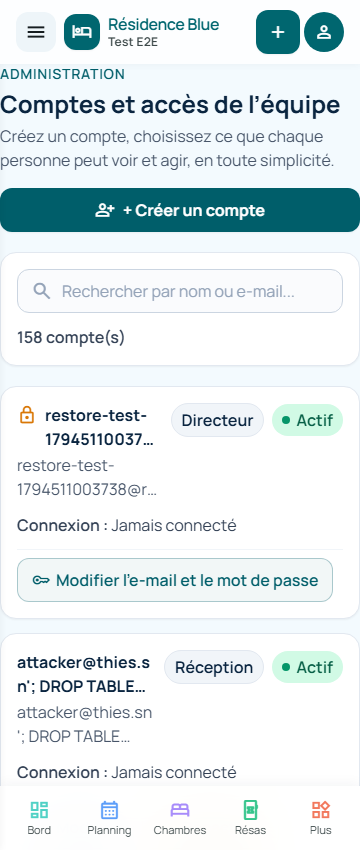
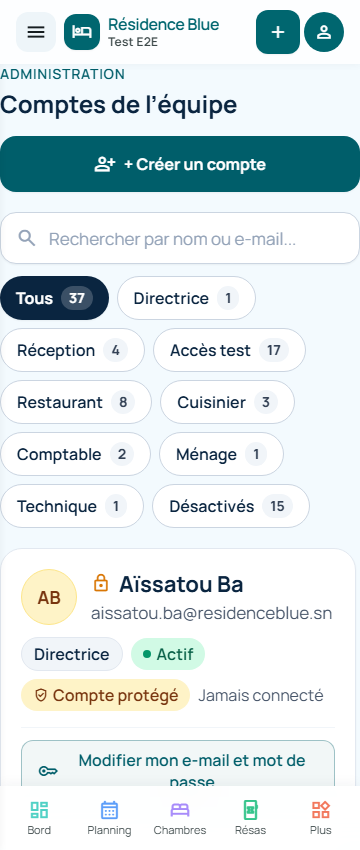
test(administration): add card list e2e tests and responsive captures

diff --git a/apps/web/e2e/administration-liste-comptes.spec.ts b/apps/web/e2e/administration-liste-comptes.spec.ts
@@ -1,0 +1,264 @@
+import * as fs from 'node:fs';
+import * as path from 'node:path';
+import { expect, test } from '@playwright/test';
+import { createE2eUser, deleteE2eUsers, loginViaUi } from './auth-e2e.helper';
+
+const capturesDir = path.resolve(
+  __dirname,
+  '../../../docs/design/captures/administration-liste-comptes',
+);
+
+test.describe('Administration — Liste des comptes en cartes (anti-régression)', () => {
+  const createdEmails: string[] = [];
+
+  test.beforeAll(() => {
+    fs.mkdirSync(capturesDir, { recursive: true });
+  });
+
+  test.afterAll(() => {
+    deleteE2eUsers(createdEmails);
+  });
+
+  test('cartes sans débordement à 360/768/1024/1440, filtres dynamiques, directeur unique protégé, suppression en page Modifier et refus API 2e admin', async ({
+    page,
+    request,
+  }) => {
+    test.setTimeout(180000);
+    const dir = createE2eUser('DIRECTION');
+    createdEmails.push(dir.email);
+
+    const loginRes = await request.post('/api/auth/login', {
+      data: { login: dir.email, password: dir.password },
+    });
+    expect(loginRes.status()).toBe(200);
+    const { accessToken: token } = (await loginRes.json()) as { accessToken: string };
+    expect(token).toBeTruthy();
+
+    await page.setViewportSize({ width: 1440, height: 900 });
+    await loginViaUi(page, dir.email, dir.password);
+
+    // Sécurité : l'API doit refuser (403) la création d'un second compte DIRECTEUR
+    const forbiddenSecondDirRes = await page.request.post('/api/administration/comptes', {
+      headers: { Authorization: `Bearer ${token}` },
+      data: {
+        fullName: 'Tentative Deuxième Admin',
+        email: `second-admin-${Date.now()}@residenceblue.sn`,
+        starterProfile: 'DIRECTEUR',
+        screenAccess: {
+          accueil: 'ECRITURE',
+          planning: 'ECRITURE',
+          chambres: 'ECRITURE',
+          clients: 'ECRITURE',
+          facturation: 'ECRITURE',
+          restaurant: 'ECRITURE',
+          cuisine: 'ECRITURE',
+          rapports: 'ECRITURE',
+        },
+        specialPermissions: {
+          voir_montants: true,
+          encaisser_paiement: true,
+          changer_etat_chambre: true,
+          annuler_commande_ou_reservation: true,
+        },
+      },
+    });
+    expect(forbiddenSecondDirRes.status()).toBe(403);
+
+    // Créer 2 comptes de test (dont un avec e-mail >= 80 caractères pour vérifier le wrapping)
+    const longEmail = `mariama.ndiaye.accueil.grand.standing.thies.${Date.now()}@direction.residenceblue.sn`;
+    expect(longEmail.length).toBeGreaterThanOrEqual(80);
+    const longFullName = `Mariama Ndiaye ${Date.now()}`;
+    const secondEmail = `cuisinier.liste.${Date.now()}@residenceblue.sn`;
+    const secondFullName = `Ibrahima Fall ${Date.now()}`;
+    createdEmails.push(longEmail, secondEmail);
+
+    const createLong = await page.request.post('/api/administration/comptes', {
+      headers: { Authorization: `Bearer ${token}` },
+      data: {
+        fullName: longFullName,
+        email: longEmail,
+        starterProfile: 'ASSISTANT_RECEPTION',
+        screenAccess: {
+          accueil: 'ECRITURE',
+          planning: 'ECRITURE',
+          chambres: 'ECRITURE',
+          clients: 'ECRITURE',
+          facturation: 'LECTURE',
+          restaurant: 'LECTURE',
+          cuisine: 'AUCUN',
+          rapports: 'AUCUN',
+        },
+        specialPermissions: {
+          voir_montants: true,
+          encaisser_paiement: true,
+          changer_etat_chambre: true,
+          annuler_commande_ou_reservation: false,
+        },
+      },
+    });
+    expect(createLong.status()).toBe(201);
+
+    const createSecond = await page.request.post('/api/administration/comptes', {
+      headers: { Authorization: `Bearer ${token}` },
+      data: {
+        fullName: secondFullName,
+        email: secondEmail,
+        starterProfile: 'CUISINIER',
+        screenAccess: {
+          accueil: 'AUCUN',
+          planning: 'AUCUN',
+          chambres: 'AUCUN',
+          clients: 'AUCUN',
+          facturation: 'AUCUN',
+          restaurant: 'AUCUN',
+          cuisine: 'ECRITURE',
+          rapports: 'AUCUN',
+        },
+        specialPermissions: {
+          voir_montants: false,
+          encaisser_paiement: false,
+          changer_etat_chambre: false,
+          annuler_commande_ou_reservation: false,
+        },
+      },
+    });
+    expect(createSecond.status()).toBe(201);
+
+    await page.goto('/administration/comptes');
+    await expect(page.locator('[data-testid="accounts-scroll-zone"]')).toBeVisible();
+
+    // Vérifier dimensions bouton + Créer un compte (>= 56 px) et recherche (>= 52 px)
+    const createBtnBox = await page.locator('[data-testid="btn-create-account"]').boundingBox();
+    const searchBox = await page.locator('[data-testid="admin-search-input"]').boundingBox();
+    expect(createBtnBox?.height).toBeGreaterThanOrEqual(55);
+    expect(searchBox?.height).toBeGreaterThanOrEqual(51);
+
+    // Vérifier barre de défilement verticale interne visible et grille
+    const scrollStyle = await page.locator('[data-testid="accounts-scroll-zone"]').evaluate((el) => {
+      const s = window.getComputedStyle(el);
+      return { overflowY: s.overflowY, scrollbarGutter: s.scrollbarGutter };
+    });
+    expect(scrollStyle.overflowY).toBe('scroll');
+
+    // Un seul compte directeur protégé, jamais de Désactiver/Supprimer dessus
+    const protectedBadges = page.locator('[data-testid="badge-protected-director"]');
+    await expect(protectedBadges).toHaveCount(1);
+    const directorCard = page.locator('article').filter({ has: protectedBadges });
+    await expect(directorCard.locator('[data-testid="btn-edit-director-credentials"]')).toBeVisible();
+    await expect(directorCard.getByRole('button', { name: /Désactiver|Réactiver|Supprimer/i })).toHaveCount(0);
+
+    // Aucune carte ne contient de bouton Supprimer ni de menu caché '...'
+    await expect(page.locator('[data-testid="accounts-cards-grid"] button:has-text("Supprimer")')).toHaveCount(0);
+    await expect(page.locator('[data-testid="accounts-cards-grid"] button[aria-label*="menu"]')).toHaveCount(0);
+
+    // Vérifier les 4 largeurs 1440, 1024, 768, 360 + captures visuelles
+    for (const width of [1440, 1024, 768, 360]) {
+      await page.setViewportSize({ width, height: 860 });
+      await page.waitForTimeout(180);
+
+      const layoutAudit = await page.evaluate((targetEmail) => {
+        const docOk = document.documentElement.scrollWidth <= document.documentElement.clientWidth;
+        const zone = document.querySelector('[data-testid="accounts-scroll-zone"]') as HTMLElement | null;
+        const grid = document.querySelector('[data-testid="accounts-cards-grid"]') as HTMLElement | null;
+        const zoneOk = zone ? zone.scrollWidth <= zone.clientWidth + 1 : false;
+
+        let cols = 1;
+        if (grid) {
+          const tpl = window.getComputedStyle(grid).gridTemplateColumns.trim();
+          cols = tpl.split(/\s+/).filter(Boolean).length;
+        }
+
+        const longCard = document.querySelector(
+          `[data-testid="account-card-${targetEmail}"]`,
+        ) as HTMLElement | null;
+        let longWrapOk = false;
+        let noDuplicateText = false;
+        if (longCard) {
+          const titleEl = longCard.querySelector('h2') as HTMLElement | null;
+          const emailEl = longCard.querySelector('p') as HTMLElement | null;
+          const cardRect = longCard.getBoundingClientRect();
+          const emailRect = emailEl?.getBoundingClientRect();
+          longWrapOk = Boolean(
+            emailRect && emailRect.right <= cardRect.right + 1 && emailEl!.scrollWidth <= emailEl!.clientWidth + 2,
+          );
+          noDuplicateText = Boolean(
+            titleEl && emailEl && titleEl.innerText.trim() !== emailEl.innerText.trim(),
+          );
+        }
+
+        const actionButtons = Array.from(
+          document.querySelectorAll('[data-testid="accounts-cards-grid"] article a, [data-testid="accounts-cards-grid"] article button'),
+        ) as HTMLElement[];
+        const smallButtons = actionButtons.filter((b) => b.getBoundingClientRect().height < 47);
+
+        return {
+          docOk,
+          zoneOk,
+          cols,
+          longWrapOk,
+          noDuplicateText,
+          smallButtonsCount: smallButtons.length,
+        };
+      }, longEmail);
+
+      expect(layoutAudit.docOk).toBe(true);
+      expect(layoutAudit.zoneOk).toBe(true);
+      expect(layoutAudit.longWrapOk).toBe(true);
+      expect(layoutAudit.noDuplicateText).toBe(true);
+      expect(layoutAudit.smallButtonsCount).toBe(0);
+      if (width >= 900) {
+        expect(layoutAudit.cols).toBe(2);
+      } else {
+        expect(layoutAudit.cols).toBe(1);
+      }
+
+      await page.screenshot({
+        path: path.join(capturesDir, `apres-${width}px.png`),
+        fullPage: false,
+      });
+    }
+
+    // Revenir à 1440 px pour tester filtres, recherche, désactivation/réactivation et suppression
+    await page.setViewportSize({ width: 1440, height: 900 });
+
+    const cuisinierPill = page.locator('[data-testid="filter-pill-PROFILE:Cuisinier"]');
+    await expect(cuisinierPill).toBeVisible();
+    await cuisinierPill.click();
+    await expect(page.locator(`[data-testid="account-card-${secondEmail}"]`)).toBeVisible();
+    await expect(page.locator(`[data-testid="account-card-${longEmail}"]`)).toHaveCount(0);
+
+    await page.locator('[data-testid="filter-pill-ALL"]').click();
+    await page.locator('[data-testid="admin-search-input"]').fill(longEmail);
+    await expect(page.locator(`[data-testid="account-card-${longEmail}"]`)).toBeVisible();
+    await expect(page.locator(`[data-testid="account-card-${secondEmail}"]`)).toHaveCount(0);
+
+    // Vider la recherche puis désactiver le 2e compte et filtrer sur Désactivés
+    await page.locator('[data-testid="admin-search-input"]').fill('');
+    const secondCard = page.locator(`[data-testid="account-card-${secondEmail}"]`);
+    await secondCard.getByRole('button', { name: 'Désactiver' }).click();
+    await page.locator('[data-testid="confirm-deactivate-btn"]').click();
+
+    await page.locator('[data-testid="filter-pill-INACTIVE"]').click();
+    await expect(secondCard).toBeVisible();
+    await secondCard.getByRole('button', { name: 'Réactiver' }).click();
+    await expect(secondCard).toHaveCount(0);
+
+    // Retour Tous, ouvrir Modifier du long compte et tester « Supprimer ce compte » en bas de la page
+    await page.locator('[data-testid="filter-pill-ALL"]').click();
+    const longCard = page.locator(`[data-testid="account-card-${longEmail}"]`);
+    await longCard.getByRole('link', { name: 'Modifier' }).click();
+    await expect(page).toHaveURL(/\/administration\/comptes\/[0-9a-f-]+$/i);
+
+    const dangerSection = page.locator('[data-testid="danger-delete-account-section"]');
+    await expect(dangerSection).toBeVisible();
+    await dangerSection.scrollIntoViewIfNeeded();
+    await page.locator('[data-testid="btn-delete-account"]').click();
+
+    await page.locator('[data-testid="delete-confirm-name"]').fill(longFullName);
+    await page.locator('[data-testid="delete-director-password"]').fill(dir.password);
+    await page.locator('[data-testid="confirm-delete-btn"]').click();
+
+    await expect(page).toHaveURL(/\/administration\/comptes/);
+    await expect(page.locator(`[data-testid="account-card-${longEmail}"]`)).toHaveCount(0);
+  });
+});
